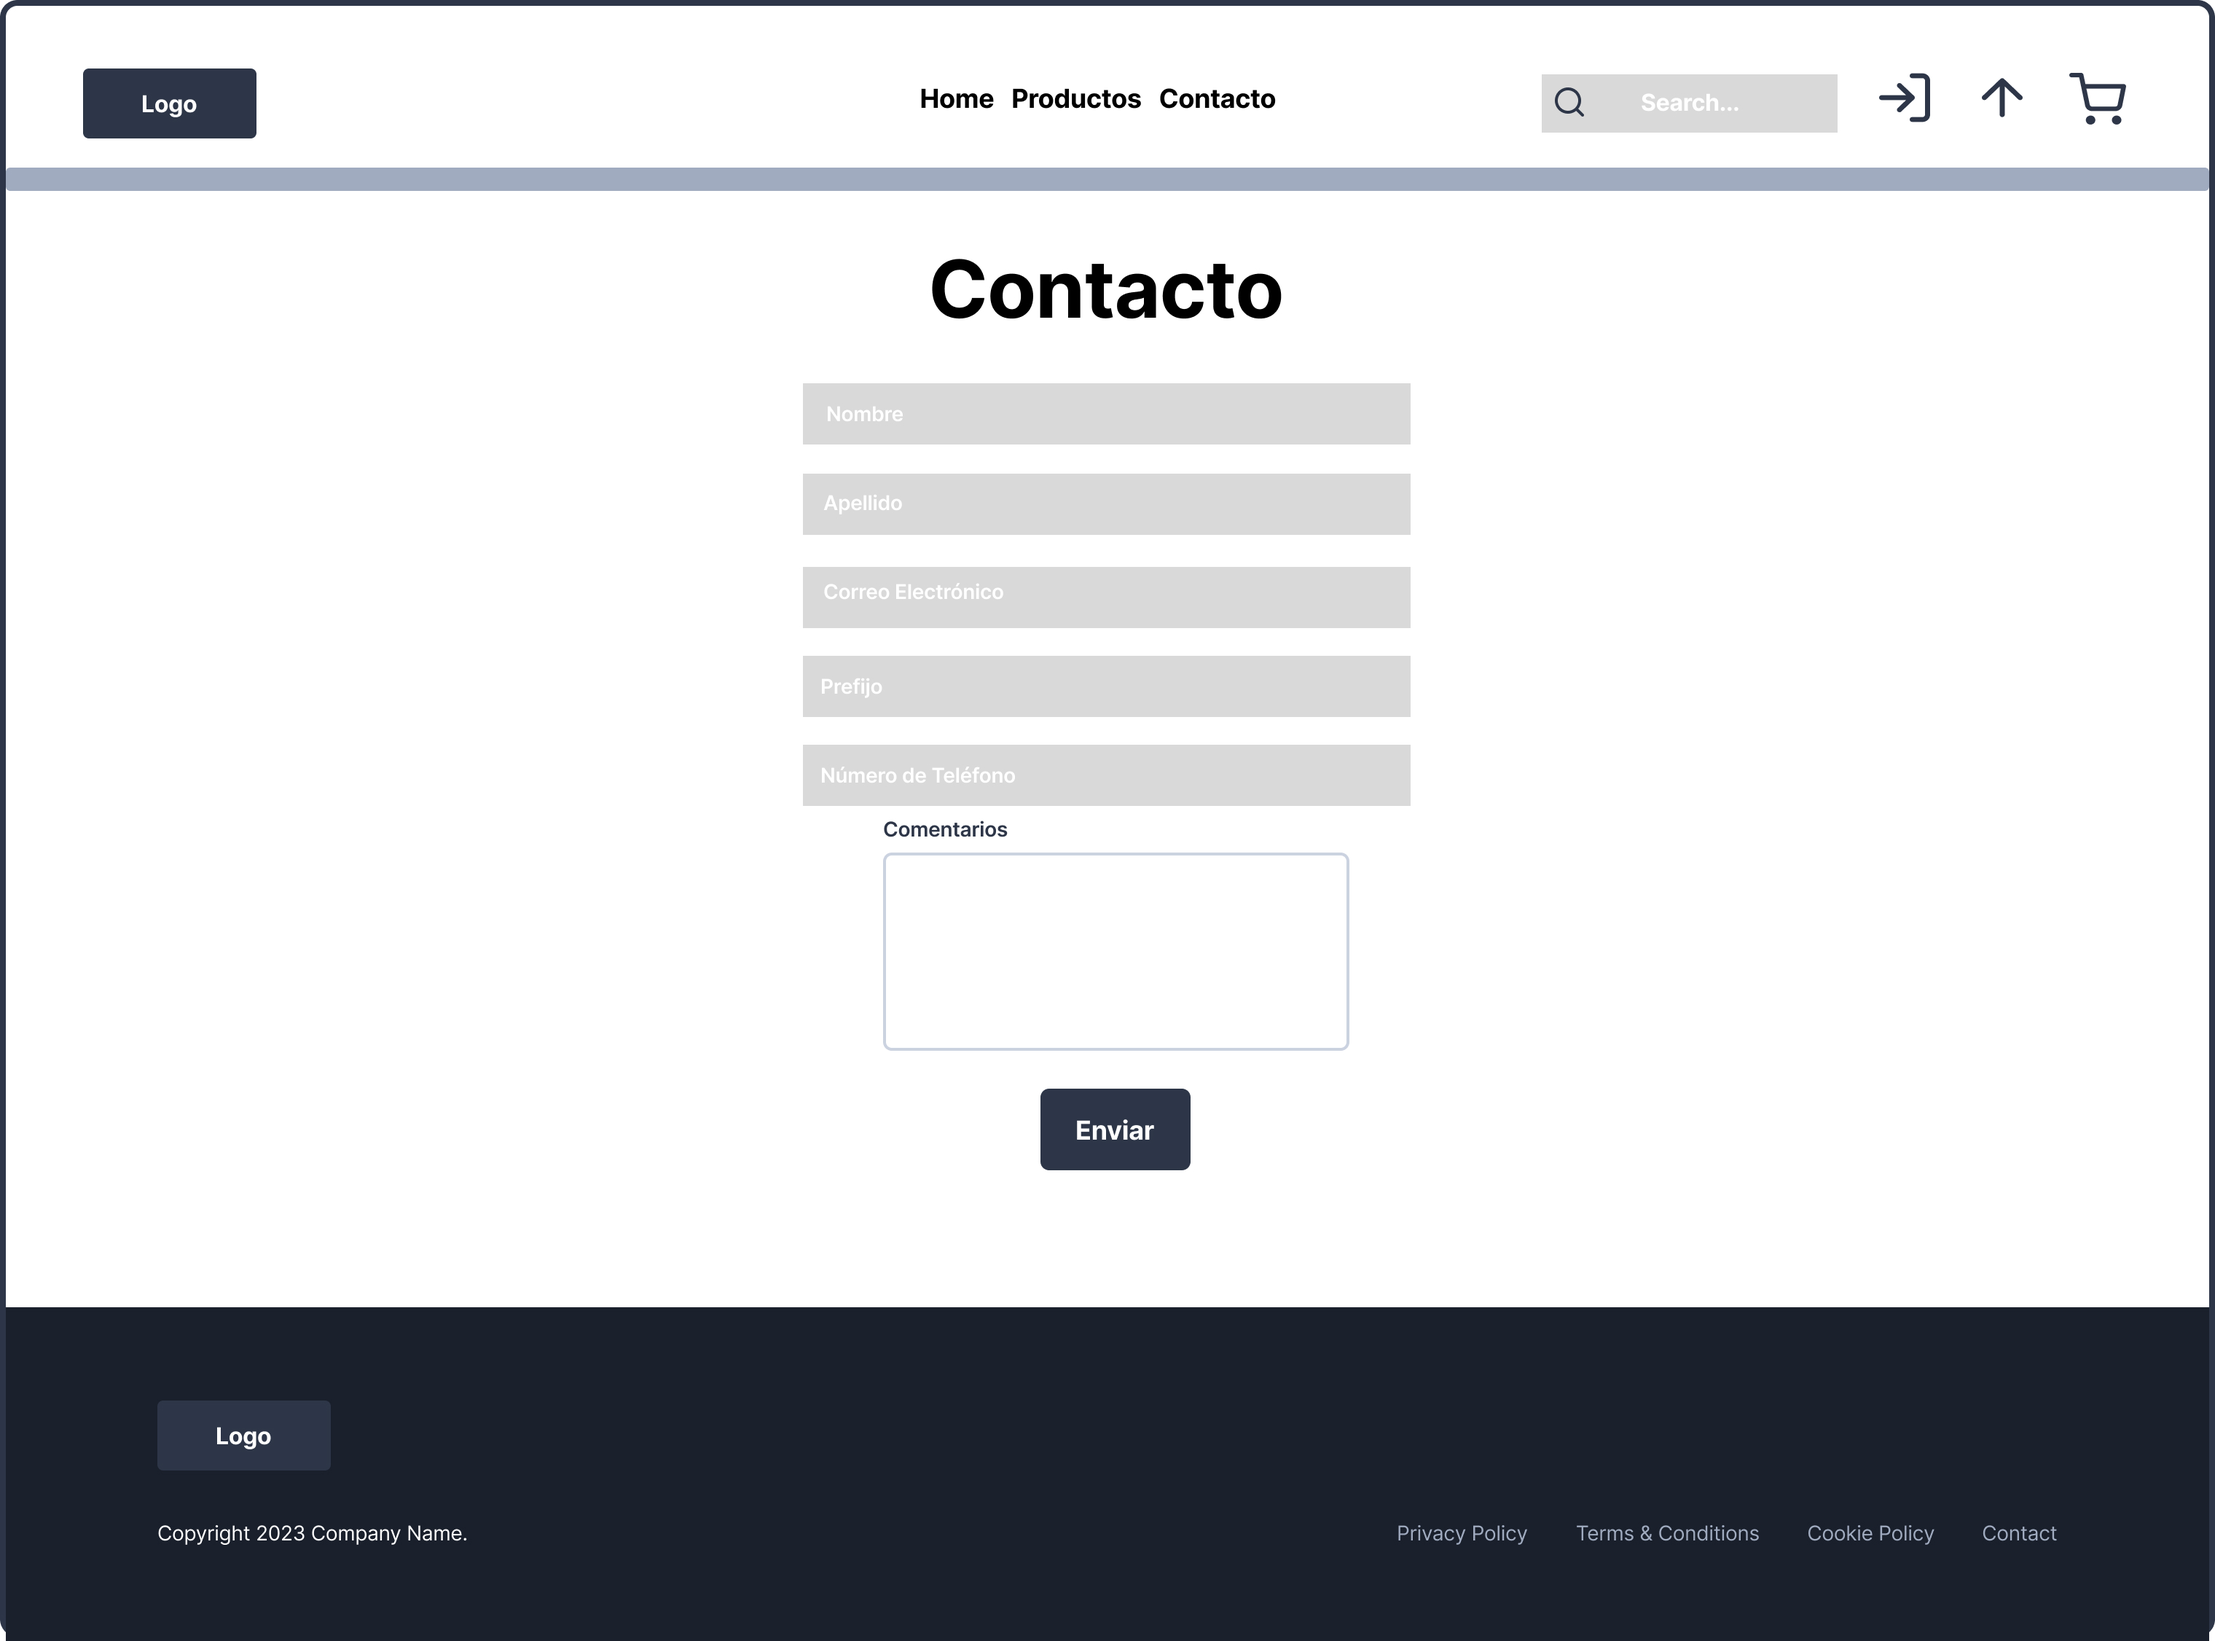
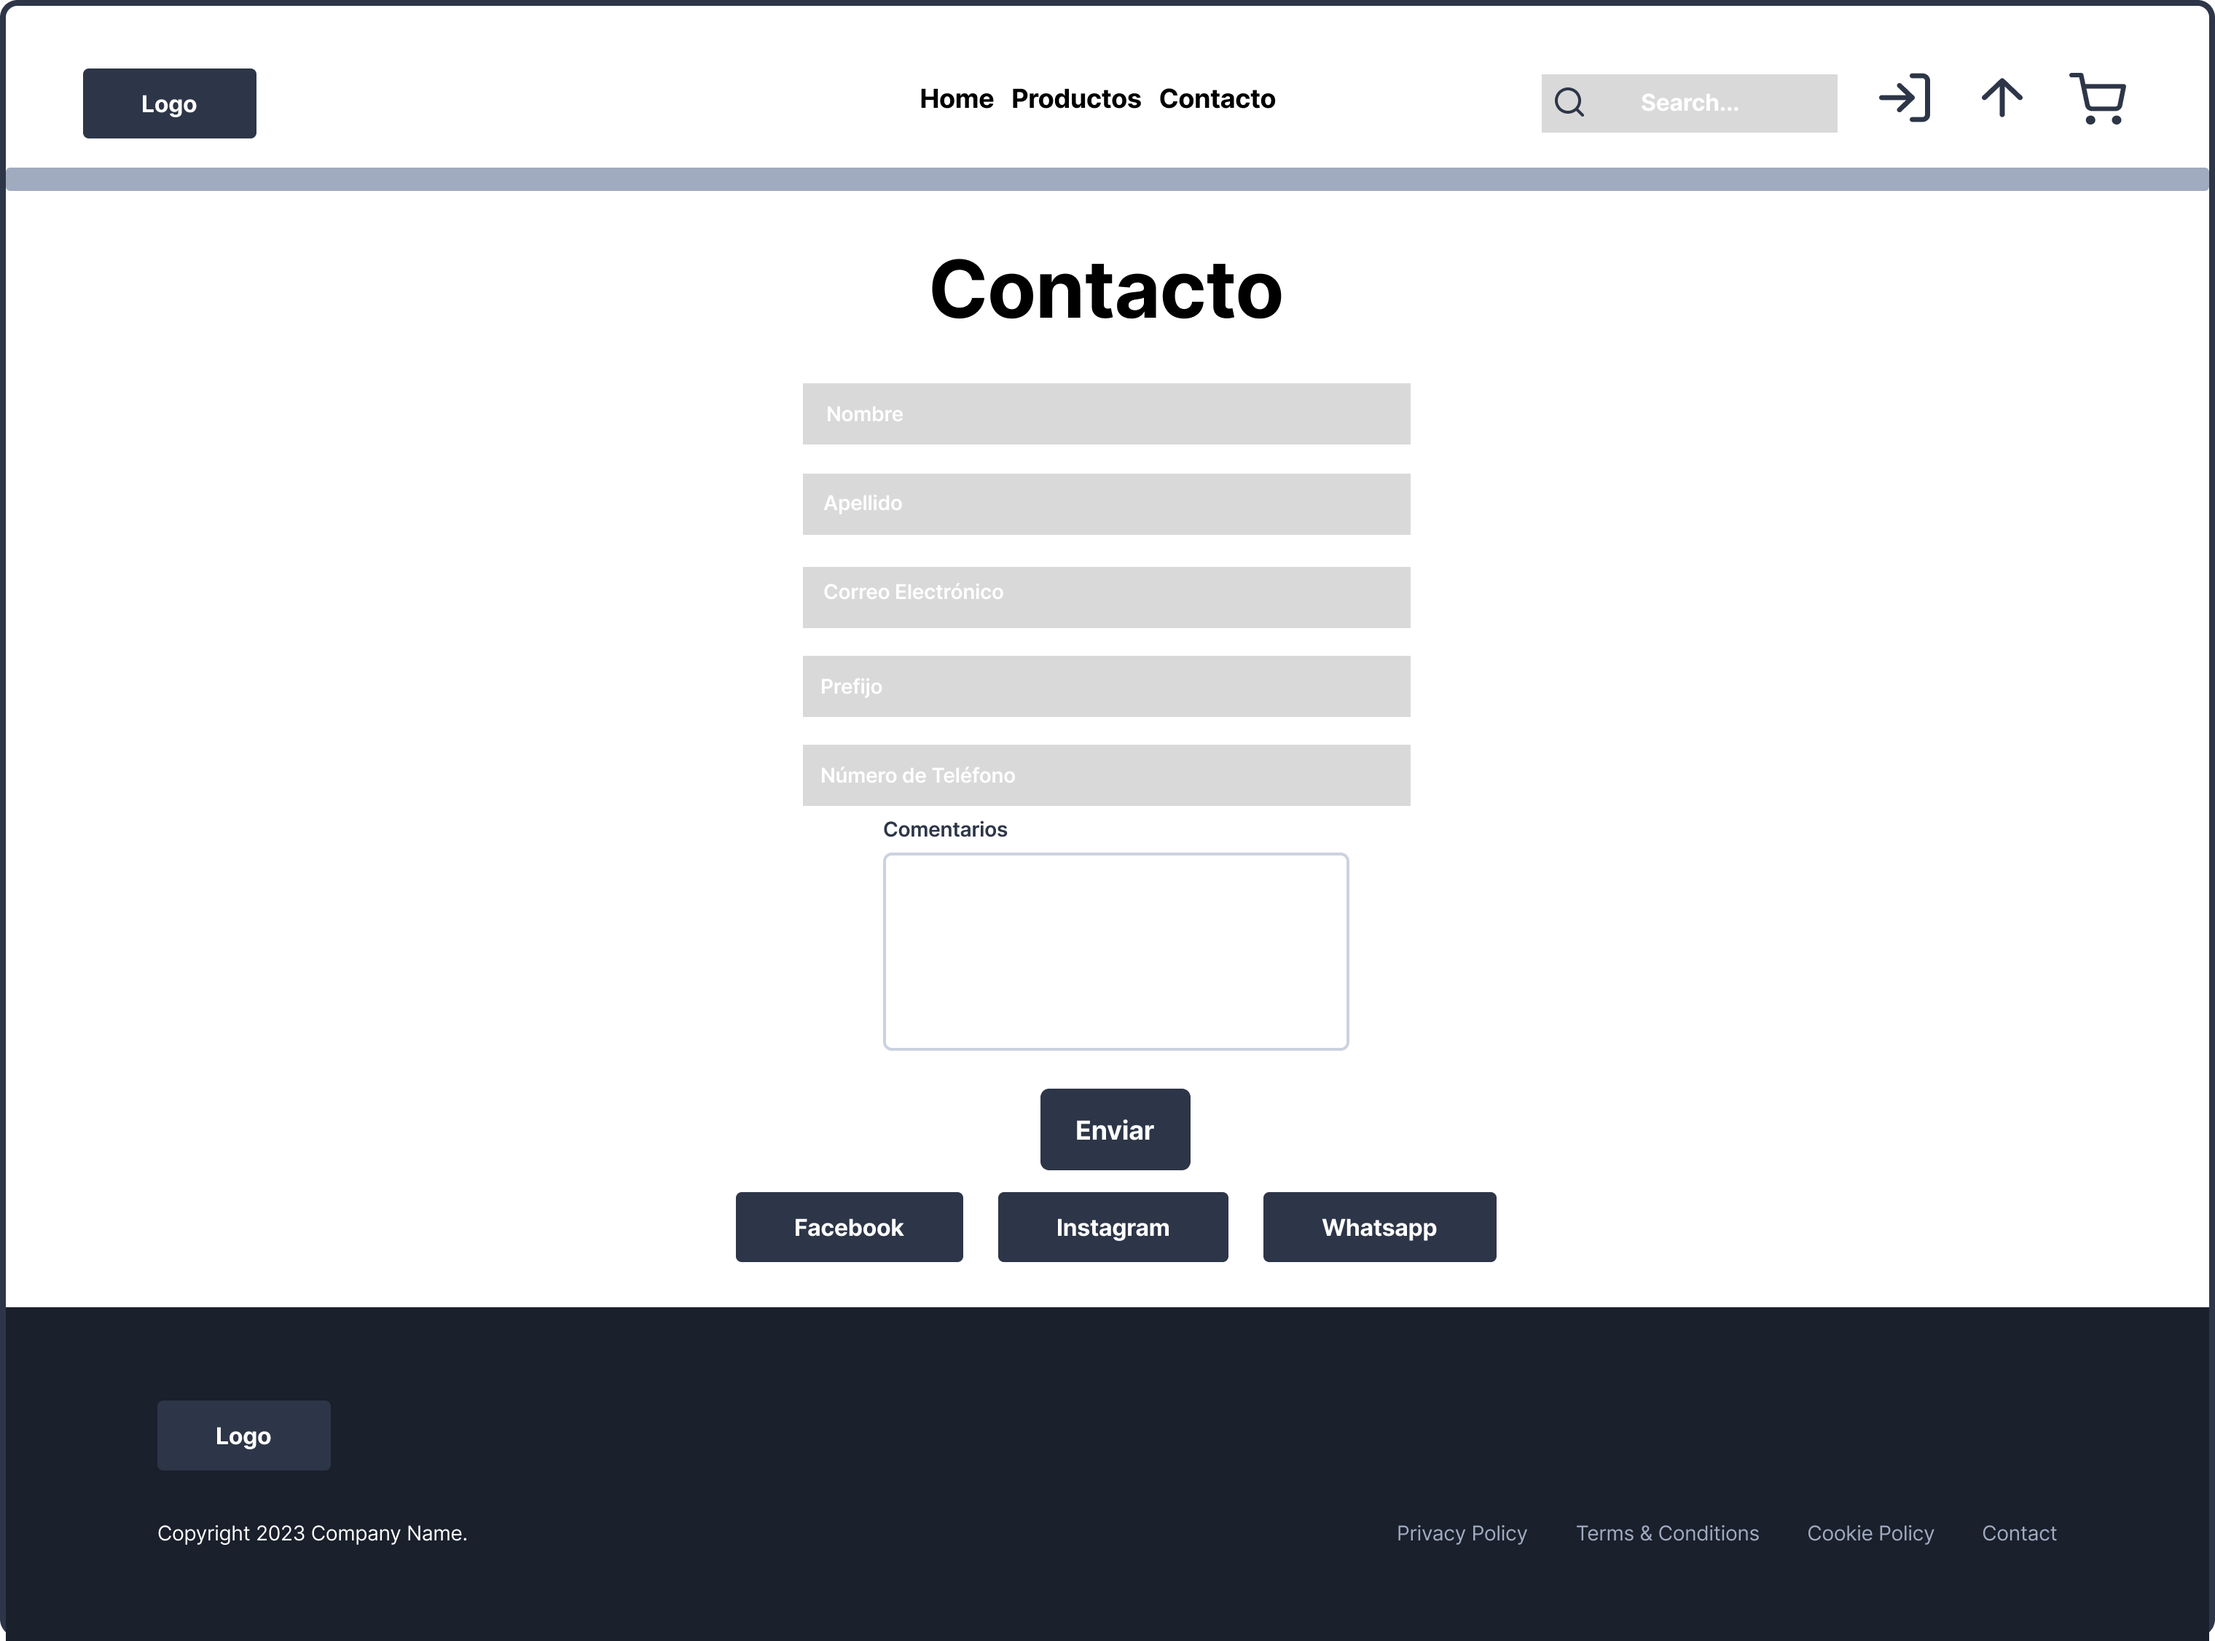
tp web1 html done

Changed region(s): [[0.3125, 0.7149, 0.6875, 0.7771]]

diff --git a/Programacion_web_1/FRANCO_CHIQUILITO_PW1_ENTREGA1/HTML/Contacto.html b/Programacion_web_1/FRANCO_CHIQUILITO_PW1_ENTREGA1/HTML/Contacto.html
@@ -39,6 +39,12 @@
         </div>
     </form>
 
+    <div class="redes">
+        <a href="#"><img src="../IMAGENES/Facebook_logo.png" alt="Facebook" id="linkredes"></a>
+        <a href="#"><img src="../IMAGENES/ig_logo.png" alt="Instagram" id="linkredes"></a>
+        <a href="#"><img src="../IMAGENES/whatsapp_logo.png" alt="Whatsapp" id="linkredes"></a>
+    </div>
+
     <hr>
 
     <Footer class="Footer">

diff --git a/Programacion_web_1/FRANCO_CHIQUILITO_PW1_ENTREGA1/Styles/Styles.css b/Programacion_web_1/FRANCO_CHIQUILITO_PW1_ENTREGA1/Styles/Styles.css
@@ -49,6 +49,14 @@
 }
 */
 
+.redes{
+    display: flex;
+}
+
+#linkredes {
+    height: 50px;
+}
+
 #prodnatacion img,
 #prodbasquet img,
 #prodrugby img{
